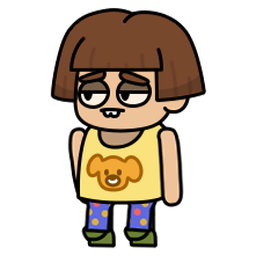
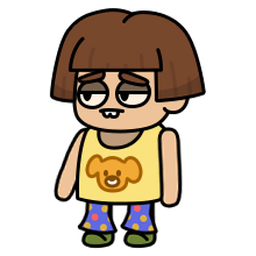
fix(assets): correct full-body pelvis, leg flip, arm pose
Three full-body composition fixes in compose_characters.py:
- Pelvis + waist clothing now render: Spine attachments without an explicit
  "name" fall back to the attachment key (the pelvis attachment had none, so it
  was silently skipped).
- Legs no longer upside-down: mesh uv sampling was vertically flipped
  ((1-v) -> v). Heroes switched to 3-slot bottoms so the pelvis cloth and the
  matching pant-legs (bottom_l/r) render together.
- Right arm anchored at the shoulder joint and leaned out via a small BONE_TWEAK
  on Shoulder_r (drot -15, pure rotation, no translation).

Regenerated the 3 hero busts + full bodies. App wiring unchanged.
Also: ignore Python __pycache__/*.pyc.

diff --git a/Assets/tools/compose_characters.py b/Assets/tools/compose_characters.py
@@ -58,7 +58,7 @@ HEROES = {  # tank/front, melee/front, support
     "p1": dict(skin="light",  hair="brown",  # Althea — Leader
                skins=outfit(3, 2, 4, "hair_short/hair_short_c_10", 24, 5, 3)),
     "p2": dict(skin="medium", hair="black",  # Kael — Vanguard
-               skins=outfit(7, 5, 7, "hair_short/hair_short_c_5", 41, 11, 1, beard=4, back=14)),
+               skins=outfit(7, 5, 7, "hair_short/hair_short_c_5", 41, 20, 1, beard=4, back=14)),
     "p3": dict(skin="dark",   hair="auburn",  # Elora — Arcanist
                skins=outfit(18, 7, 10, "hair_short/hair_short_c_20", 13, 30, 12)),
 }
@@ -100,9 +100,18 @@ def mul(A, B):
 def xform(M, x, y):
     return (M[0][0] * x + M[0][1] * y + M[0][2], M[1][0] * x + M[1][1] * y + M[1][2])
 
+# Small pose correction: rotate the right arm about the shoulder joint (top of
+# the arm). Positive = toward body; this leans it slightly away, no translation
+# so the arm stays anchored at the shoulder.
+BONE_TWEAK = {
+    "Shoulder_r": {"drot": -15.0, "dx": 0.0, "dy": 0.0},
+}
+
 WORLD = {}
 for b in BONES:
-    L = matrix(b.get("x", 0), b.get("y", 0), b.get("rotation", 0), b.get("scaleX", 1), b.get("scaleY", 1))
+    tw = BONE_TWEAK.get(b["name"], {})
+    L = matrix(b.get("x", 0) + tw.get("dx", 0), b.get("y", 0) + tw.get("dy", 0),
+               b.get("rotation", 0) + tw.get("drot", 0), b.get("scaleX", 1), b.get("scaleY", 1))
     p = b.get("parent")
     WORLD[b["name"]] = mul(WORLD[p], L) if p else L
 
@@ -179,17 +188,17 @@ def build(skin_names, skin=None, hair=None):
     att = {}
     for sn in skin_names:
         for slot, atts in SKINS[sn].get("attachments", {}).items():
-            for _, a in atts.items():
-                att[slot] = a
+            for att_key, a in atts.items():
+                # Spine: a missing "name" means the image == the attachment key.
+                att[slot] = (a, a.get("name") or a.get("path") or att_key)
     canvas = Image.new("RGBA", (CW, CH), (0, 0, 0, 0))
     for s in SLOTS:
         slot = s["name"]
         if slot not in att:
             continue
-        a = att[slot]
+        a, name = att[slot]
         W = WORLD[SLOT_BONE[slot]]
         typ = a.get("type", "region")
-        name = a.get("name", a.get("path"))
         if not name:
             continue
         try:
@@ -228,7 +237,8 @@ def build(skin_names, skin=None, hair=None):
                 for _v in range(n):
                     wx, wy = xform(W, verts[i], verts[i+1]); i += 2
                     pts.append((wx, wy))
-            srcpx = [(uvs[2*k] * img.width, (1 - uvs[2*k+1]) * img.height) for k in range(n)]
+            # uv v=0 is the image top (== world top here), so sample v*H directly.
+            srcpx = [(uvs[2*k] * img.width, uvs[2*k+1] * img.height) for k in range(n)]
             dstpx = [to_screen(*pts[k]) for k in range(n)]
             _paste_affine(canvas, img, srcpx, dstpx)
     return canvas
